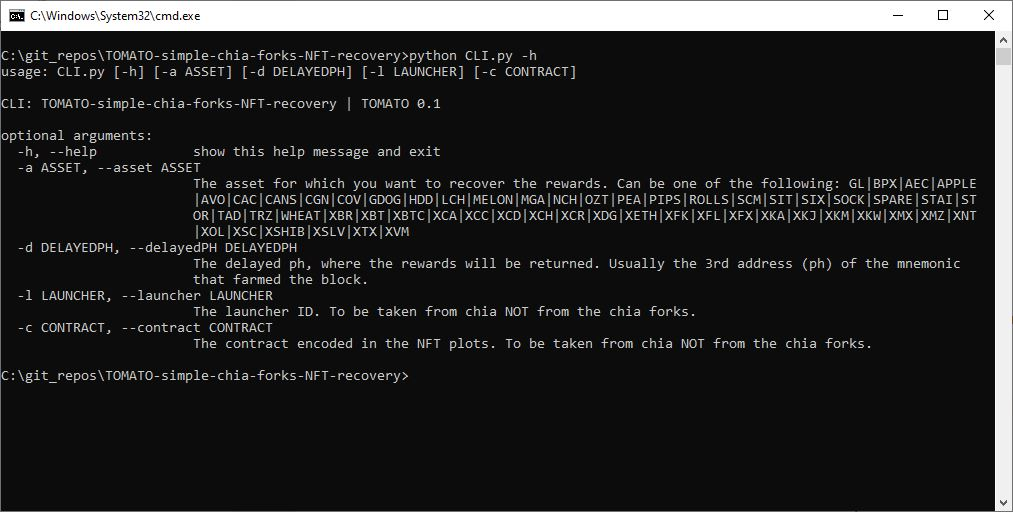
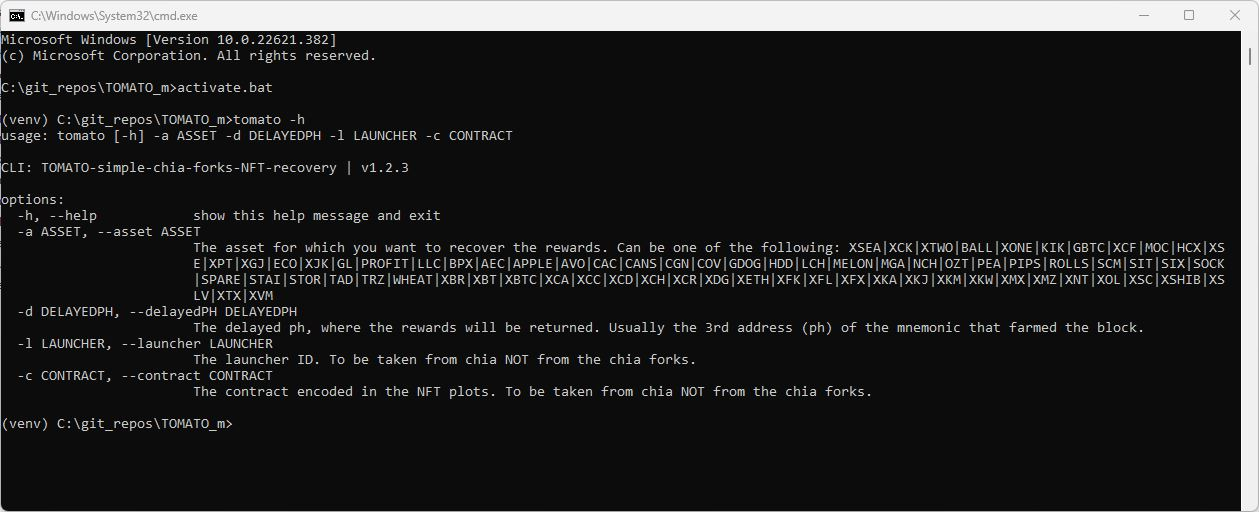
ReadMe updates

Changed region(s): [[0.0, 0.0, 1.0, 1.0], [0.0, 0.8125, 0.1836, 0.8438], [0.0, 0.9688, 0.0306, 1.0]]

diff --git a/README.md b/README.md
@@ -22,13 +22,11 @@
 - Also, feel free to contribute to the tool's development with a PR.
 
 # How to use
-- Have python installed on your system (I recommend 3.9.x, 64bit).
+- Have python installed on your system (I recommend 3.11.x, 64bit).
 
-- Setup a venv.
+- Use the provided `install.bat` file
 
-- pip install the required packages from requirements.txt
-
-After the setup is done you can use the CLI interface to start the recovery.
+After the setup is done you can use the CLI interface to start the recovery; type tomato -h for more info.
 
 ![alt text](ReadMe_res/CLI_overview.JPG?raw=true)
 
